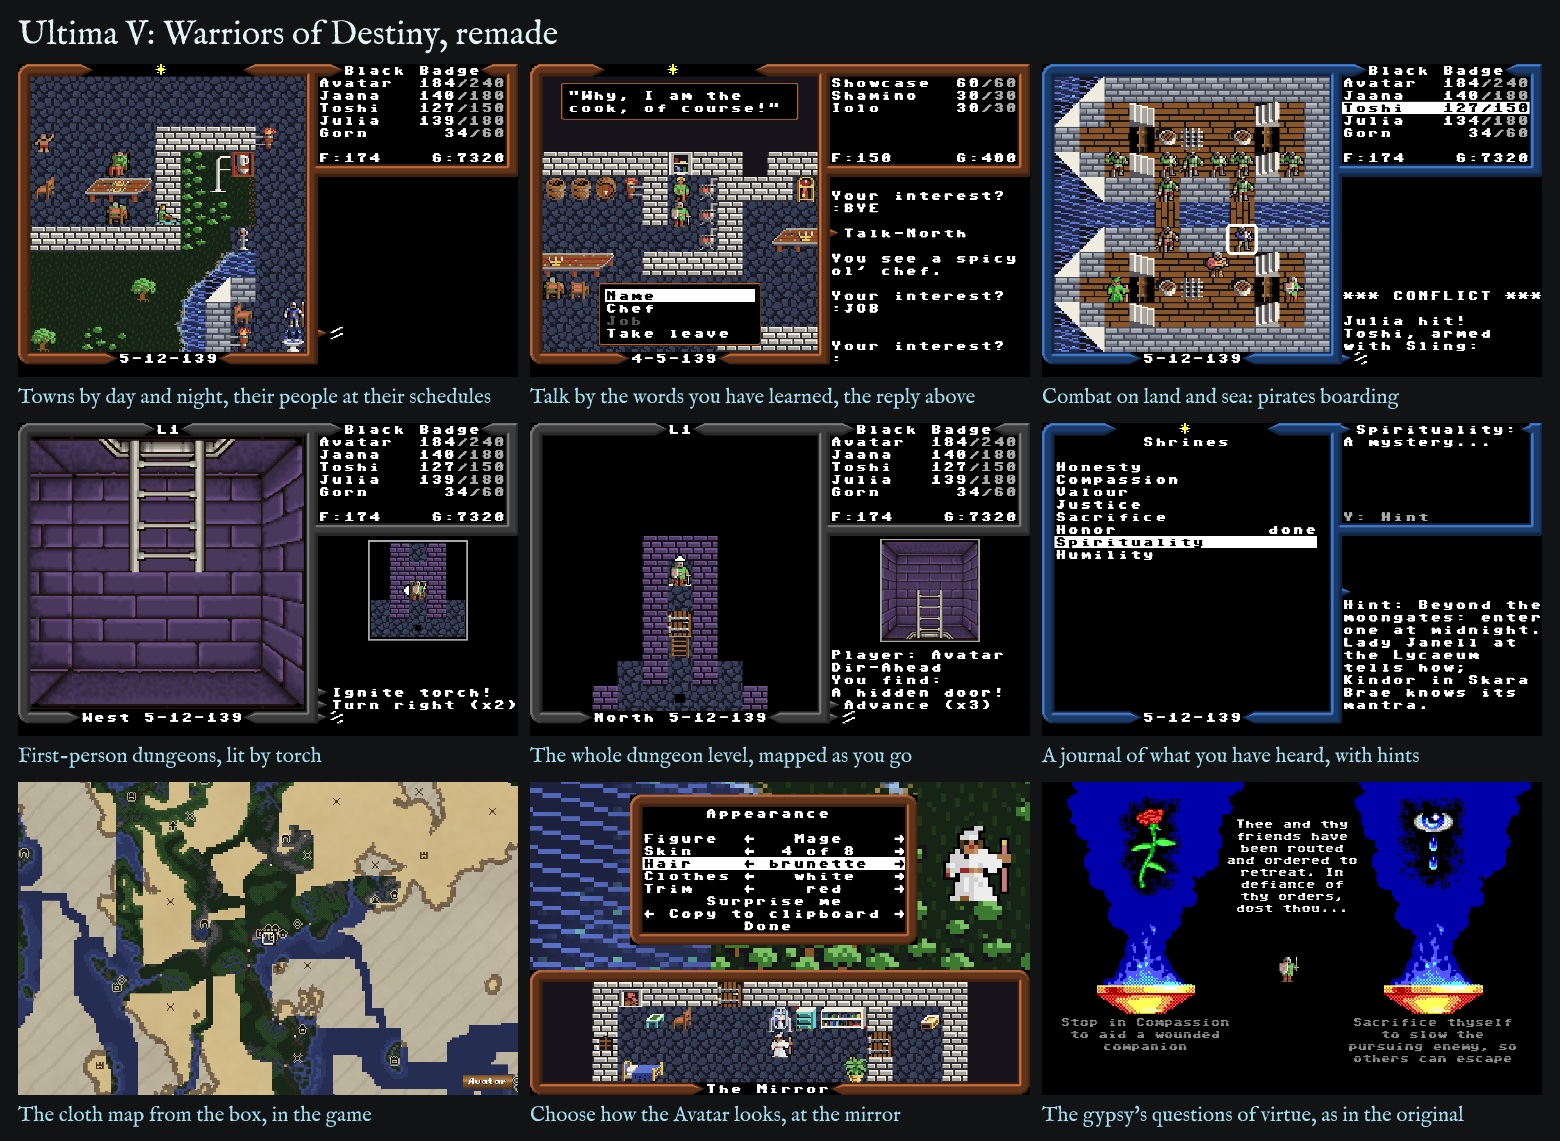
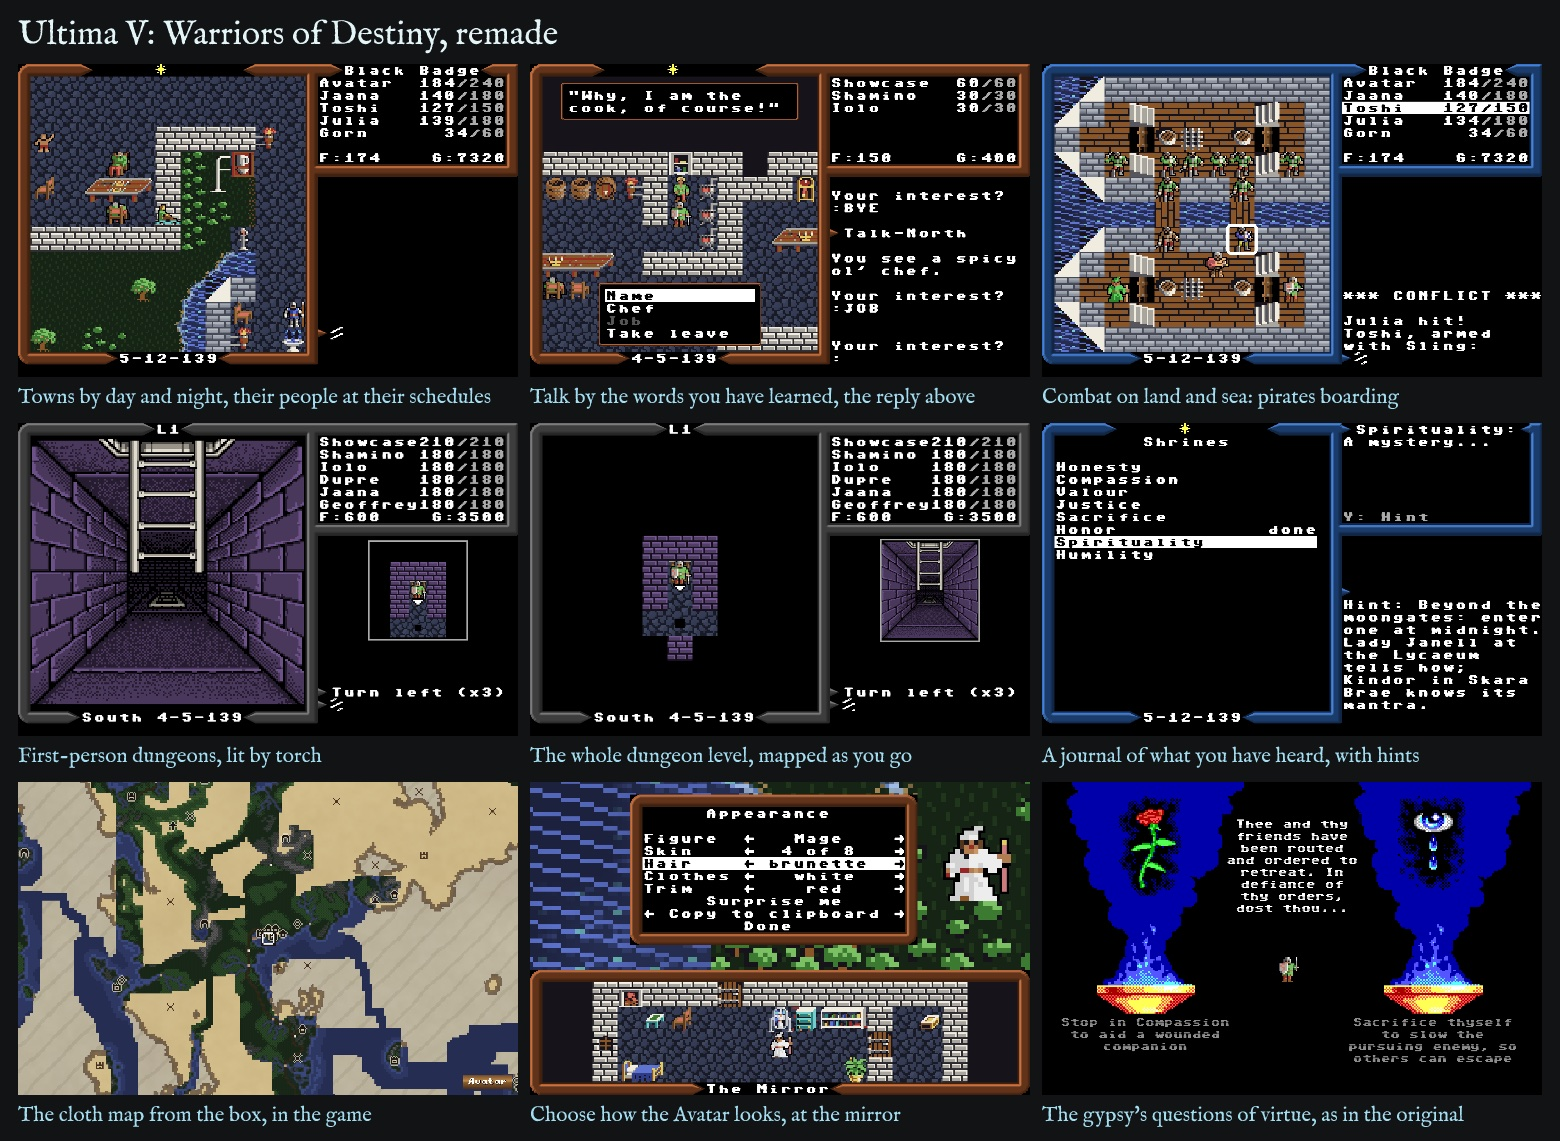
README: the looks in two sheets, newest first, every look shown
The first sheet Remastered, Sharp X68k, C64, PC EGA and PC CGA under the
Enhanced interface; the second the Apple II's three, and the Retro
interface with PC EGA and Apple Color - each its own dungeon and frame.
The features sheet's dungeons taken again, as they are now drawn.

diff --git a/README.md b/README.md
@@ -17,7 +17,9 @@ be had; and the box's painting, for the key art.
 
 ![The Enhanced interface: a town, talk with the reply above and the words you have learned below, combat aboard a ship, a dungeon in first person and mapped whole, the journal, the cloth map, the Avatar at the mirror and the gypsy's questions](promo/features.jpg)
 
-![The two interfaces and their looks - Enhanced with Remastered, Apple Color or PC EGA, Retro with PC EGA or Apple Color - each in the world, a town, combat and a dungeon, and for the Enhanced interface the dungeon's whole-level map](promo/looks.jpg)
+![Eight looks, newest first - Remastered, Sharp X68k, C64, PC EGA and PC CGA, each in the Enhanced interface in the world, a town, combat, a dungeon in first person and the dungeon's whole-level map](promo/looks.jpg)
+
+![The Apple II's looks - Apple Color, Apple //e and Apple //c in the Enhanced interface - and the Retro interface, the 1988 screen, with PC EGA and Apple Color, each in the world, a town, combat and a dungeon](promo/looks-2.jpg)
 
 - [Installation](#installation) The web, iPhone and iPad, Windows,
   macOS, the Steam Deck, Linux and Android.
